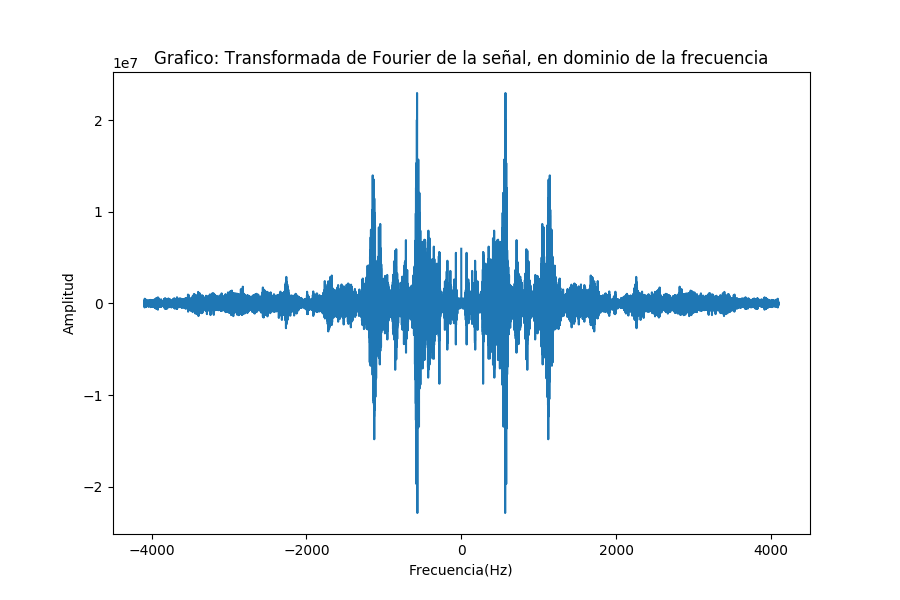
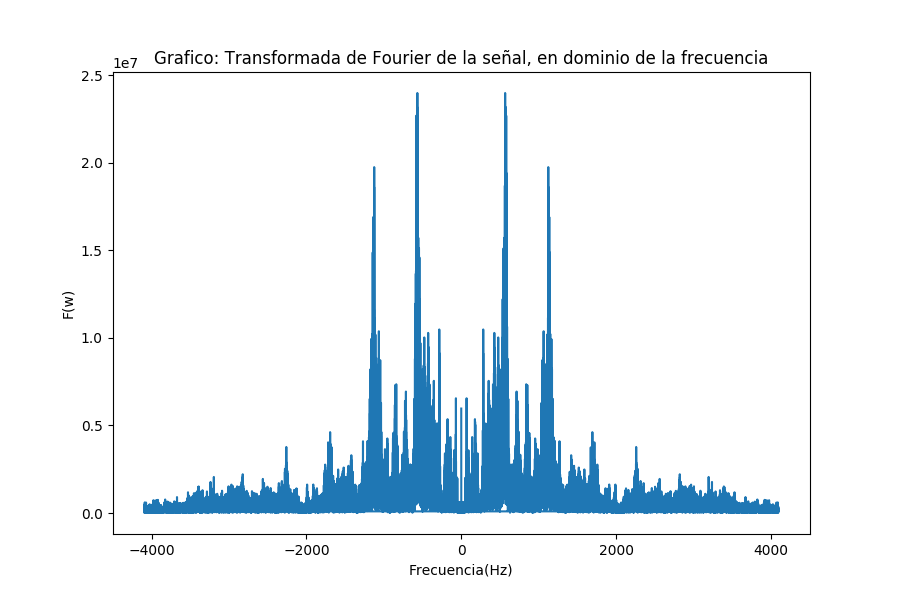
listo de dioses

diff --git a/lab1_redes.py b/lab1_redes.py
@@ -40,7 +40,7 @@ def transformadaFourierYgrafico(freqMuestreo,datos):
     plot.figure("Señal en Dominio de la Frecuencia ", [9.0, 6.0])
     plot.title('Grafico: Transformada de Fourier de la señal, en dominio de la frecuencia')
     plot.xlabel('Frecuencia(Hz)')
-    plot.ylabel('Amplitud')
+    plot.ylabel('F(w)')
     plot.plot(frecuencias, abs(datosTransformadaFourier))
     plot.show()
 
@@ -75,7 +75,7 @@ def truncarFrecuencias(freqMuestreo,datos):
     plot.figure("Señal en Dominio de las Frecuencias importantes ", [9.0, 6.0])
     plot.title('Grafico: Transformada de Fourier truncada de la señal, en dominio de la frecuencias importantes')
     plot.xlabel('Frecuencia(Hz)')
-    plot.ylabel('Amplitud')
+    plot.ylabel('F(w)')
     plot.plot(frecuencias, abs(datosTransformadaFourier))
     plot.show()
 
@@ -84,10 +84,10 @@ def truncarFrecuencias(freqMuestreo,datos):
 
 ############################ BLOQUE PRINCIPAL O MAIN ################################
 
-#graficoSenalHandel(freqMuestreo,datos)
+graficoSenalHandel(freqMuestreo,datos)
 a = transformadaFourierYgrafico(freqMuestreo,datos)
 (frecuencias, b) = truncarFrecuencias(freqMuestreo, datos)
-#transformadaFourierInversaYgrafico(a,freqMuestreo,datos, 'Grafico del audio con su transformada inversa en el tiempo')
+transformadaFourierInversaYgrafico(a,freqMuestreo,datos, 'Grafico del audio con su transformada inversa en el tiempo')
 transformadaFourierInversaYgrafico(b, freqMuestreo, datos, 'Grafico del audio con su transformada inversa truncada en el tiempo')
 
-#wavfile.write("a.wav", freqMuestreo, np.asarray(b, dtype=np.int16))
+wavfile.write("a.wav", freqMuestreo, np.asarray(b, dtype=np.int16))
